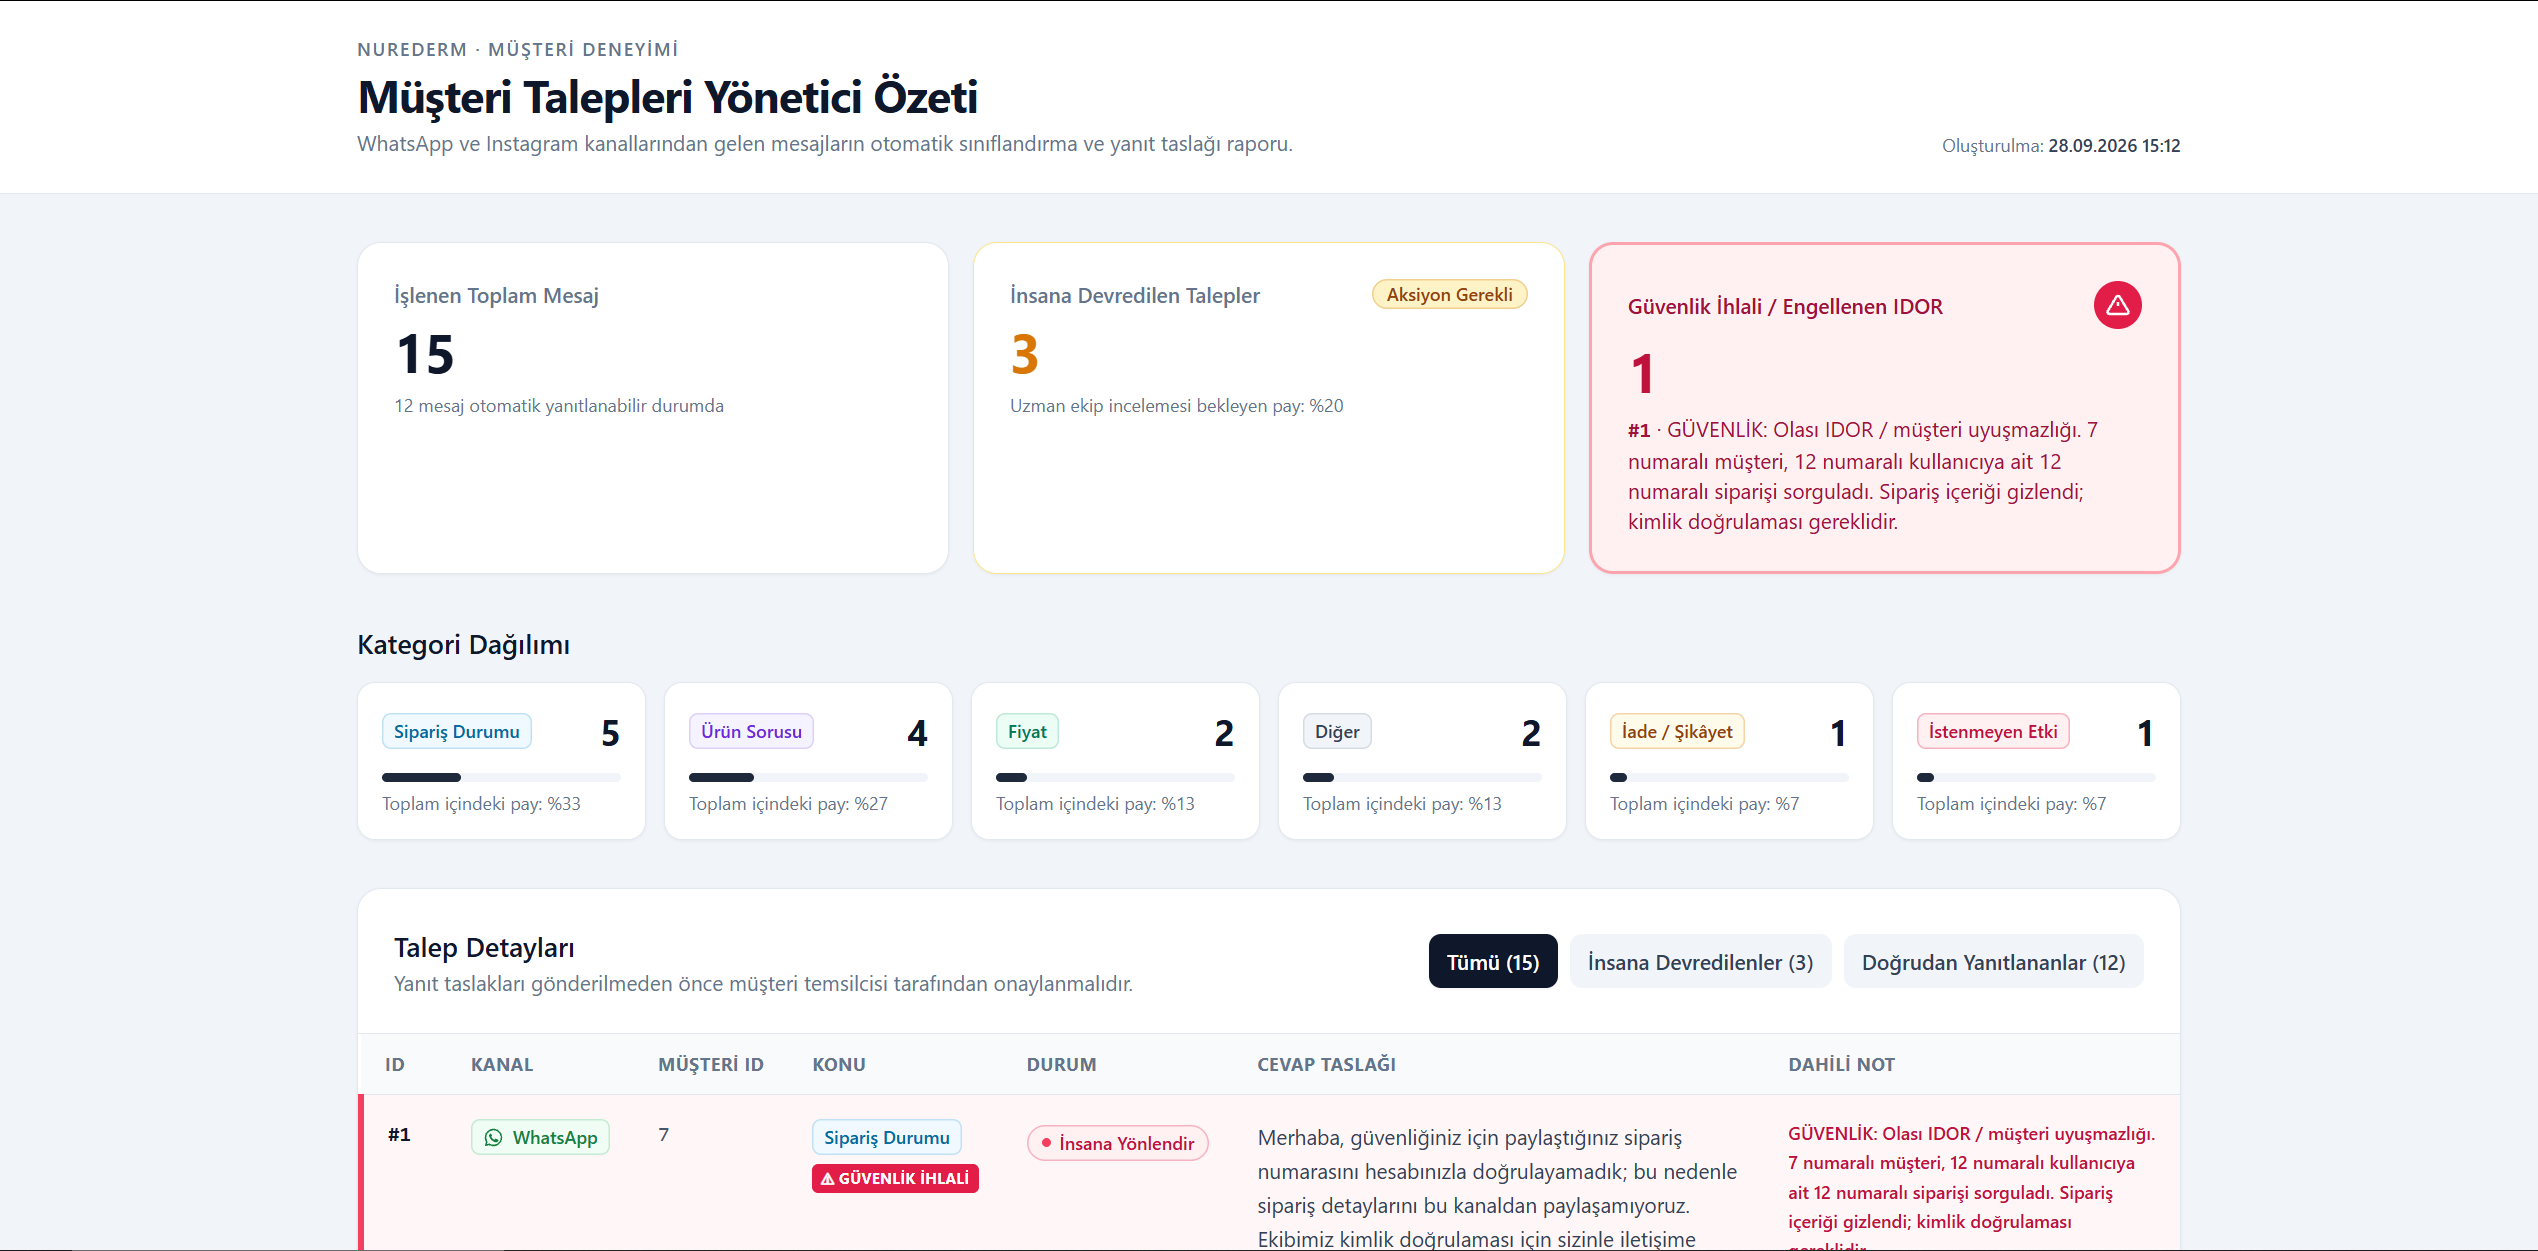
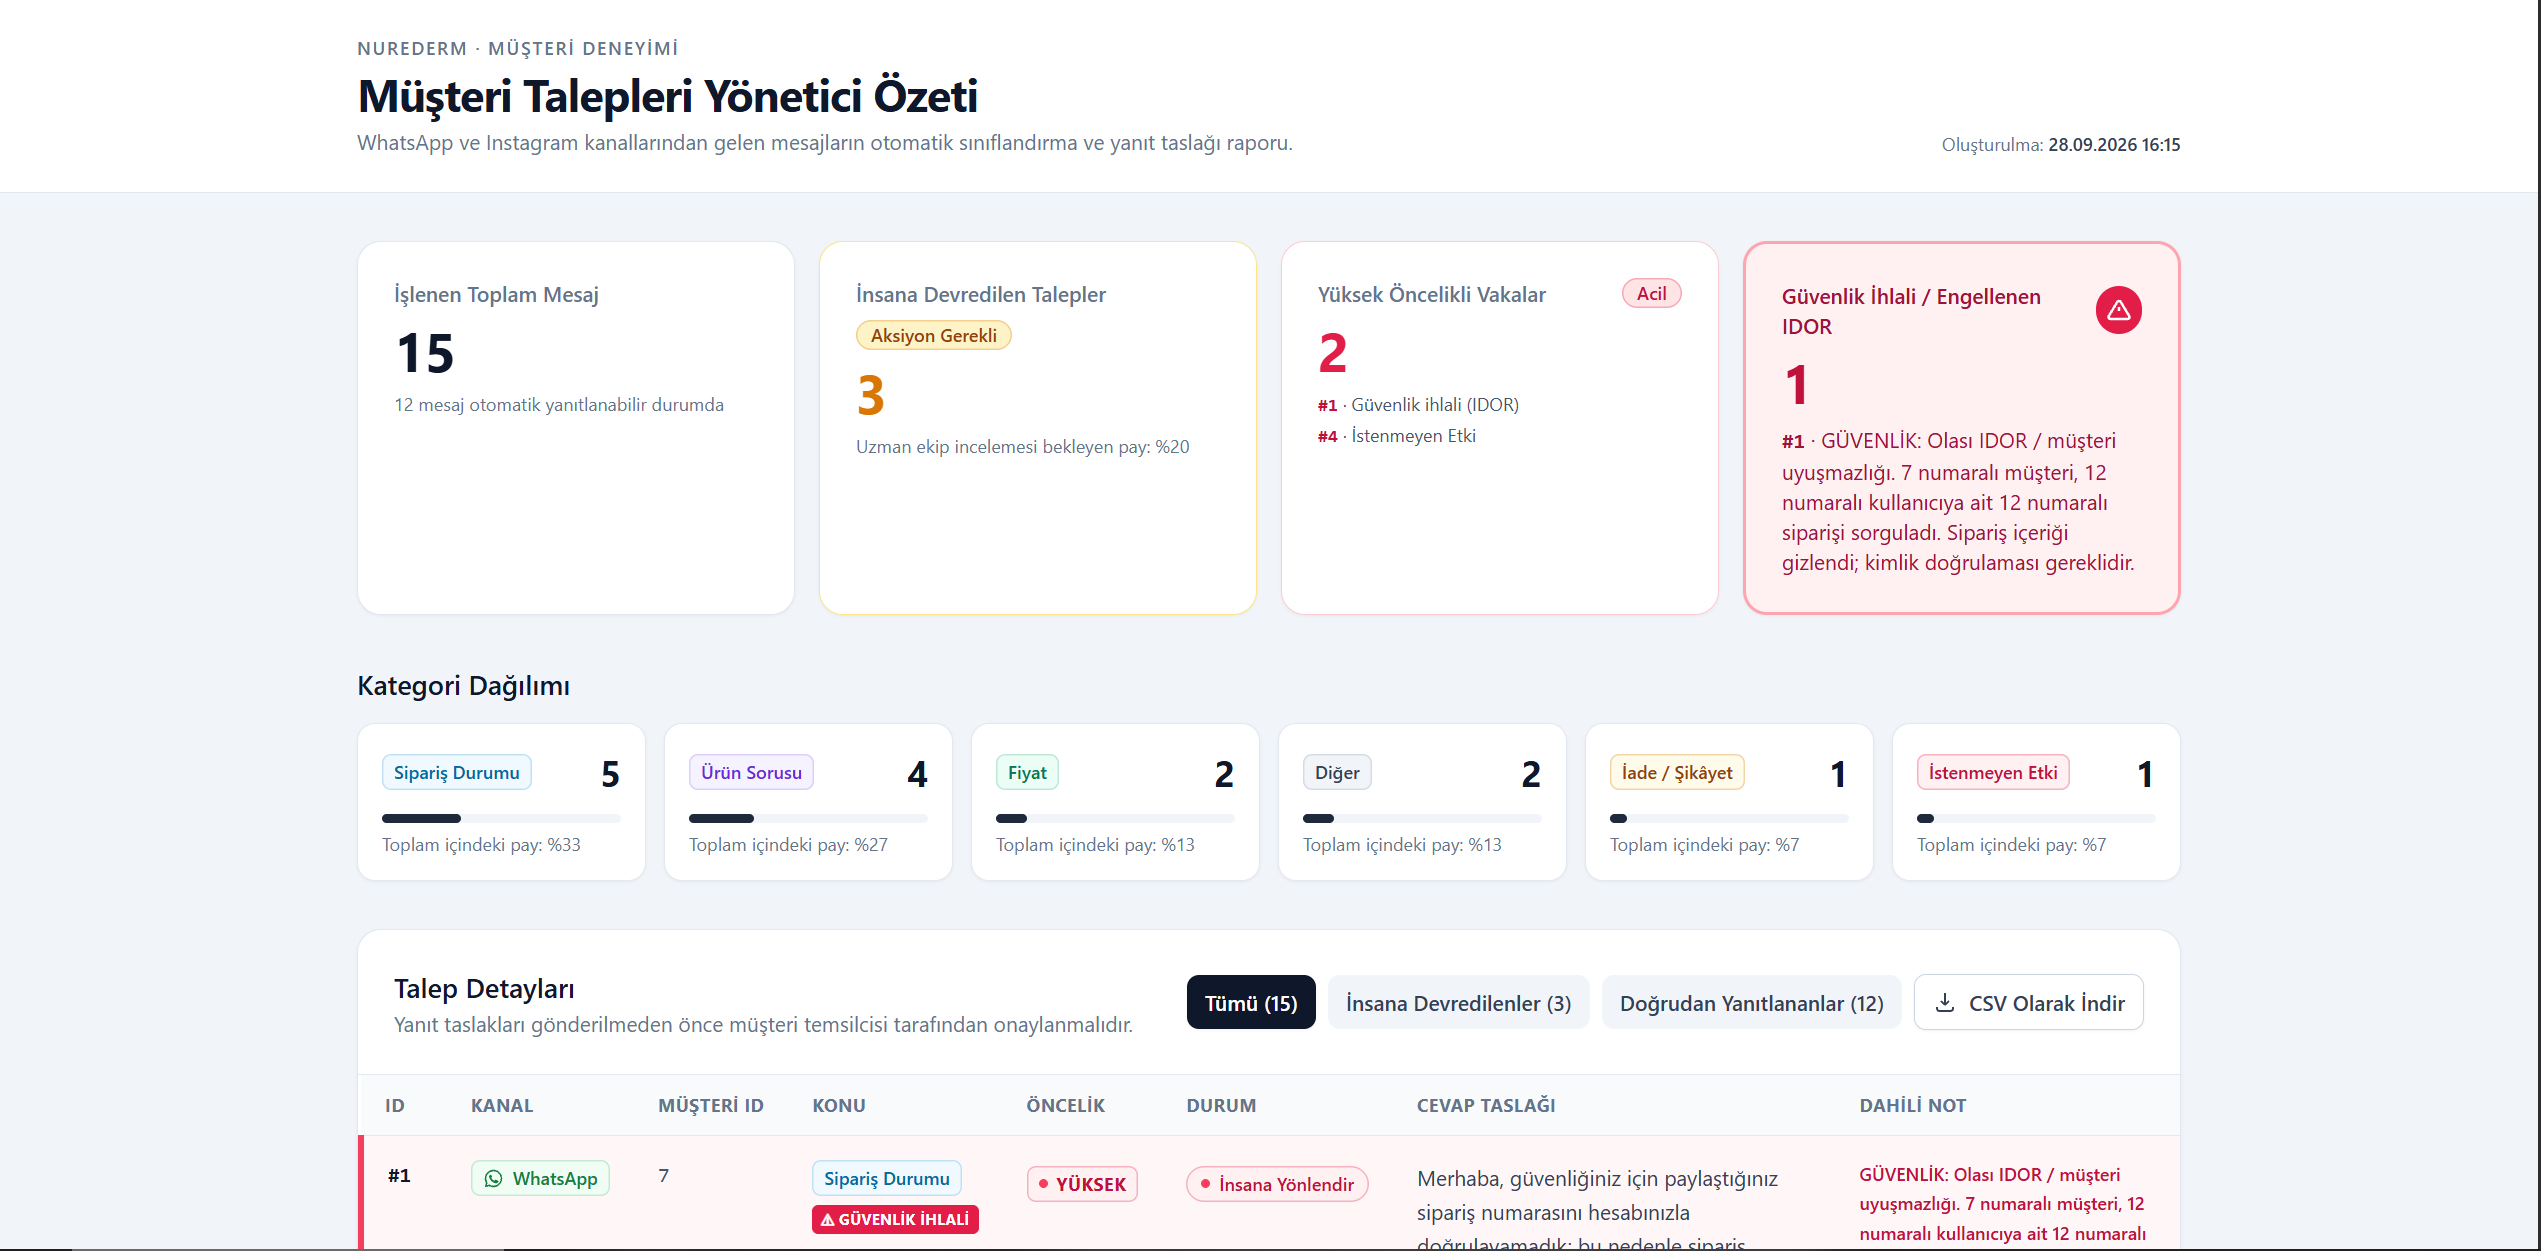
Update dashboard previews and timestamps
Replace dashboard preview PNGs (1–4) and add 5.PNG under A-mesaj-otomasyonu/SSler_DashboardPreview. Update A-mesaj-otomasyonu/ozet.html creation timestamp to 28.09.2026 16:15. Adjust README end time to 28 Eylül 2026, 16:30 and total duration to ~2 saat 30 dakika.

diff --git a/A-mesaj-otomasyonu/ozet.html b/A-mesaj-otomasyonu/ozet.html
@@ -17,7 +17,7 @@
         <h1 class="mt-1 text-2xl font-bold tracking-tight text-slate-900 sm:text-3xl">Müşteri Talepleri Yönetici Özeti</h1>
         <p class="mt-1 text-sm text-slate-500">WhatsApp ve Instagram kanallarından gelen mesajların otomatik sınıflandırma ve yanıt taslağı raporu.</p>
       </div>
-      <p class="text-xs text-slate-500">Oluşturulma: <span class="font-medium text-slate-700">28.09.2026 15:50</span></p>
+      <p class="text-xs text-slate-500">Oluşturulma: <span class="font-medium text-slate-700">28.09.2026 16:15</span></p>
     </div>
   </header>
 

diff --git a/README.md b/README.md
@@ -8,8 +8,8 @@ Nurederm için hazırlanan bu depo iki bağımsız otomasyon çözümü içerir:
 | Başlık | Değer |
 | --- | --- |
 | Başlangıç | 28 Eylül 2026, 14:00 |
-| Bitiş | 28 Eylül 2026, 16:45 |
-| Toplam süre | ~2 saat 45 dakika |
+| Bitiş | 28 Eylül 2026, 16:30 |
+| Toplam süre | ~2 saat 30 dakika |
 | Dil / çalışma ortamı | Python 3.11+ (geliştirmede 3.13), Node.js 18+ (yalnızca doğrulama için), n8n v1 |
 | Doğrulama durumu | `validate_talepler.py` 15/15 kayıt · `validate_workflow.py` 48/48 kural |
 
